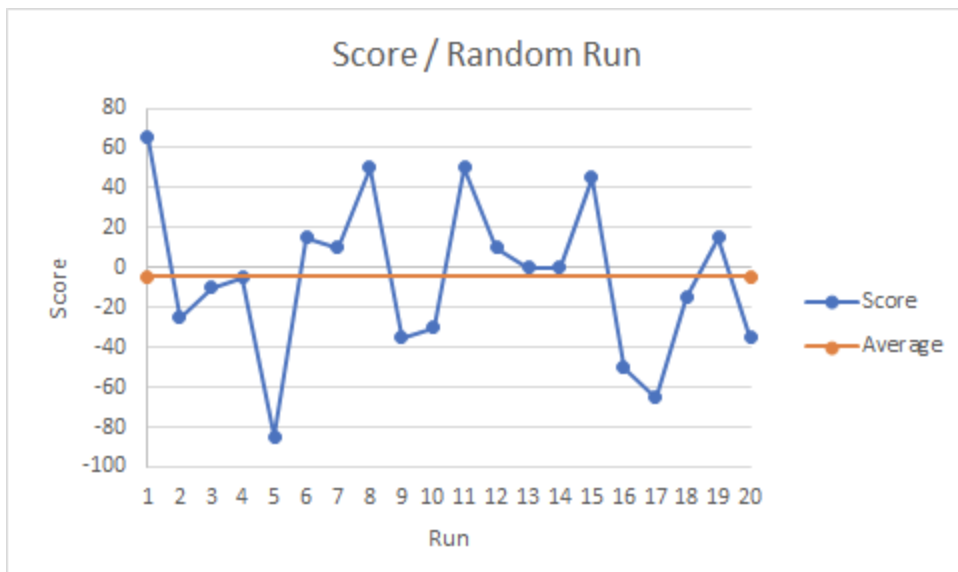
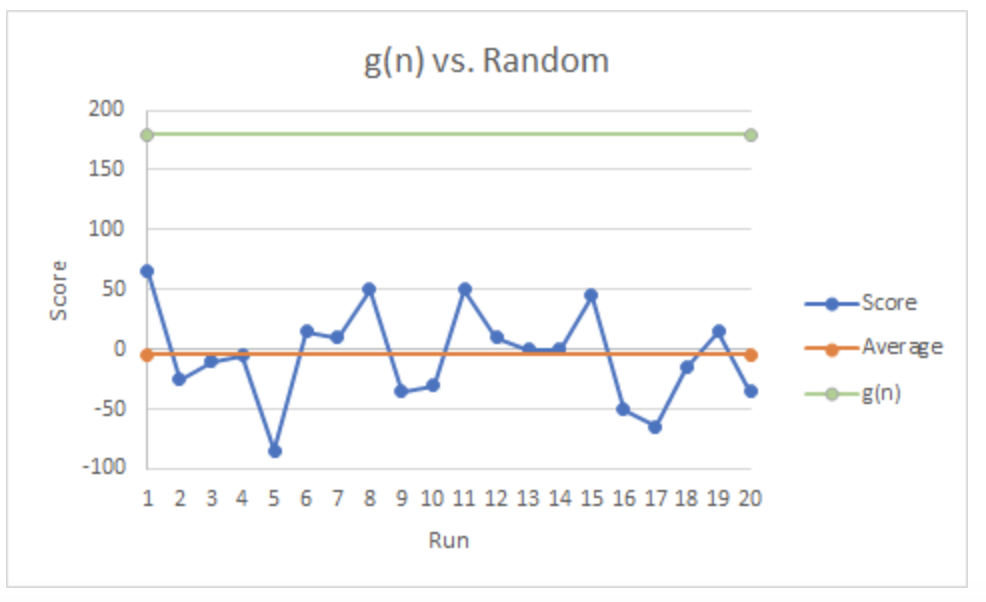
pushing

Changed region(s): [[0.0303, 0.1486, 0.999, 0.9808], [0.333, 0.0594, 0.666, 0.1486], [0.9687, 0.0, 1.0, 0.0297]]

diff --git a/docs/final.md b/docs/final.md
@@ -52,7 +52,7 @@ Reliance on learned hueristic: 50%
 ## Evaluation:
 f(n): reward / # of items, we didn’t count number of steps because the path is continuous, the depending factor is the item pickup sequence. Also, because the agent is trying to reach out the best score and each item is unique with a unique score, reward/# of items is a fair metric to evaluate performance of a run.
 
-# Sparse Map:
+#### Sparse Map:
 Shortest path with giving reward / step score (average score) = 180
 We only have five runs for this algorithm since the score will always be the same. 5 runs just to prove that the agent is always picking up the optimal items.
 
